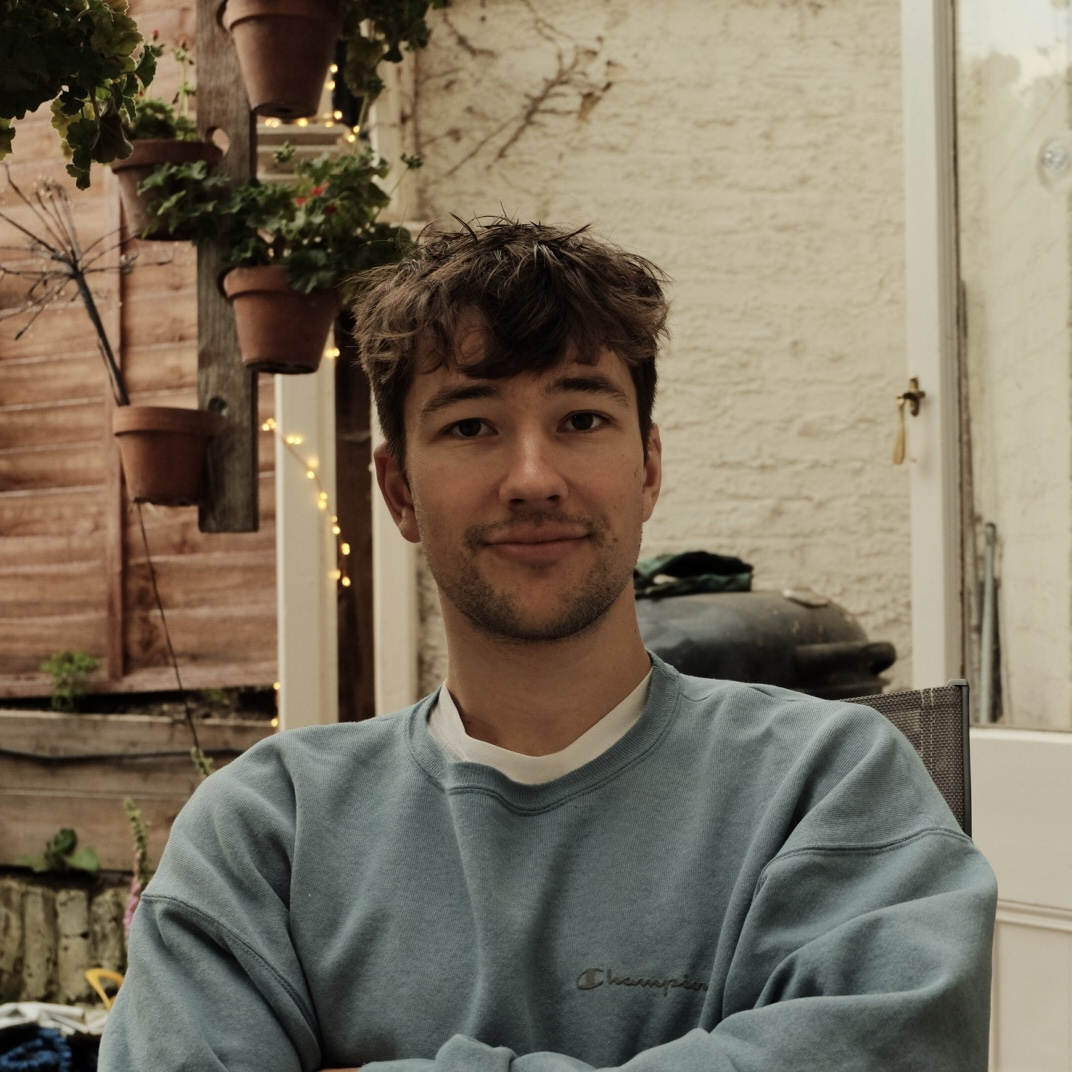
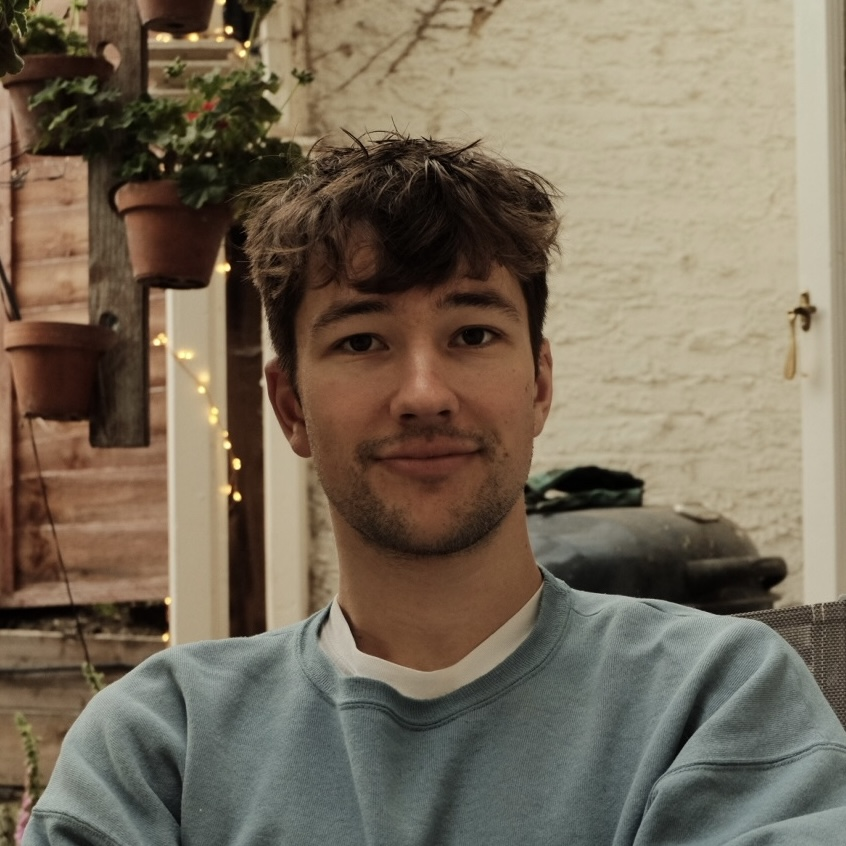
Sorted mobile welcome sizing and profile image location

diff --git a/components/About.tsx b/components/About.tsx
@@ -1,10 +1,19 @@
 import React from "react";
+import Image from "next/image";
+
+import profileImage from "../public/profile-square.jpg";
 
 type Props = {};
 
 const About: React.FC<Props> = (props: Props) => {
 	return (
-		<div id="about" className="w-[90%] sm:w-full mt-12 flex flex-col">
+		<div id="about" className="w-[90%] sm:w-full mt-12 flex items-center gap-6">
+			<Image
+				src={profileImage}
+				sizes="100vh"
+				alt="Picture of the author"
+				className="aspect-square max-w-[124px] rounded-full border-[1px] border-lightish-light dark:border-darkish-light"
+			/>
 			<p className="font-light text-justify">
 				Thank you for taking the time to look at my website! I'm a software engineer based
 				in London. I like to keep things simple; see below for some more info about me or

diff --git a/components/Welcome.tsx b/components/Welcome.tsx
@@ -9,15 +9,15 @@ type Props = {};
 const Welcome: React.FC<Props> = (props: Props) => {
 	return (
 		<div className="mt-8 whitespace-nowrap">
-			<h1 className="font-semibold relative sm:text-9xl text-[7rem] leading-[1]">
+			<h1 className="font-semibold relative sm:text-9xl text-[6rem] leading-[1]">
 				<div className="flex">
 					Hello!
-					<Image
+					{/* <Image
 						src={profileImage}
 						sizes="100vh"
 						alt="Picture of the author"
-						className="aspect-square max-w-[112px] ml-3 rounded-full self-center border-[1px] border-lightish-light dark:border-darkish-light"
-					/>
+						className="aspect-square max-w-[112px] ml-3 rounded-full self-end border-[1px] border-lightish-light dark:border-darkish-light"
+					/> */}
 				</div>
 				I'm Dan.
 			</h1>
